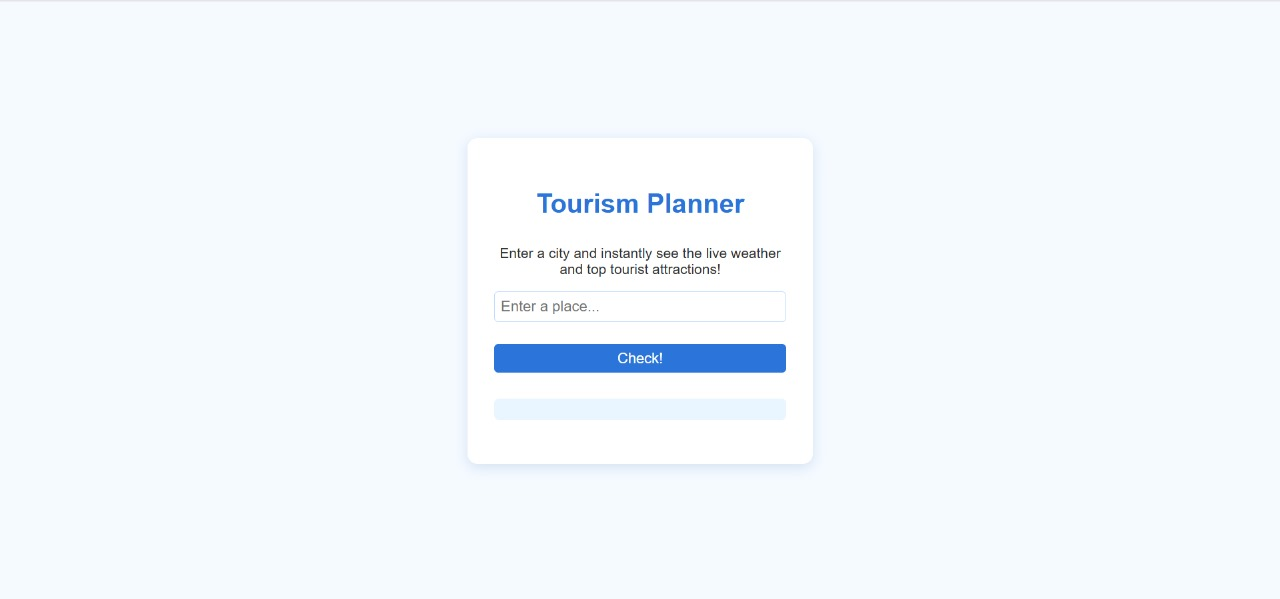
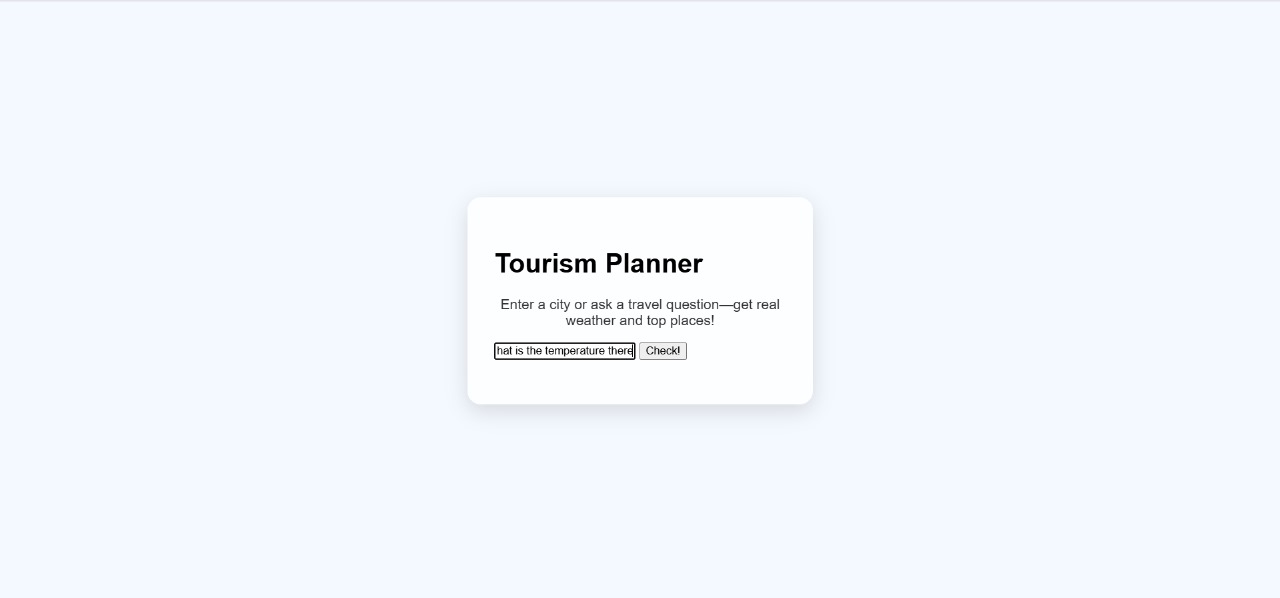
final changes

diff --git a/frontend/app.js b/frontend/app.js
@@ -1,15 +1,51 @@
+function parseUserInput(rawInput) {
+  // List your supported cities
+  const cities = [
+    "Bangalore", "Delhi", "Mumbai", "Chennai", "Kolkata", "Bengaluru", "Hyderabad", "Pune", "Ahmedabad",
+    "Jaipur", "Lucknow", "Goa", "Agra", "Varanasi", "Mysore", "Kochi", "Amritsar", "Udaipur", "Shimla",
+    "Manali", "Rishikesh", "London", "Paris", "New York", "Tokyo", "Sydney", "Berlin", "Rome",
+    "San Francisco", "Singapore"
+  ];
+  let cityFound = "";
+  for (const city of cities) {
+    const re = new RegExp("\\b" + city + "\\b", "i");
+    if (re.test(rawInput)) {
+      cityFound = city;
+      break;
+    }
+  }
+  let wantsWeather = /temp|weather|climate|hot|cold|rain|degree/i.test(rawInput);
+  let wantsPlaces = /place|visit|see|explore|go|attraction|spot/i.test(rawInput);
+  // Default: if neither keyword is found, show both
+  if (!wantsWeather && !wantsPlaces) wantsWeather = wantsPlaces = true;
+  return { city: cityFound, wantsWeather, wantsPlaces };
+}
+
 async function getTourismInfo() {
-  const place = document.getElementById("placeInput").value;
-  let output = "";
+  const rawInput = document.getElementById("placeInput").value;
+  const { city, wantsWeather, wantsPlaces } = parseUserInput(rawInput);
+
+  if (!city) {
+    document.getElementById("result").innerHTML = "Sorry, couldn't find a city in your request.";
+    return;
+  }
+
   document.getElementById("loading").style.display = "block";
+  let output = "";
   try {
-    const response = await fetch(`http://localhost:5000/tourism?place=${encodeURIComponent(place)}`);
+    const response = await fetch(`http://localhost:5000/tourism?place=${encodeURIComponent(city)}`);
     const data = await response.json();
+
     if (data.error) {
       output = data.error;
     } else {
-      output = `In ${place}, it's currently ${data.temp}&deg;C with a chance of ${data.rain_chance}% to rain.<br>And these are the places you can go:<br>`;
-      output += data.attractions.map(a => `- ${a}`).join("<br>");
+      if (wantsWeather) {
+        output += `In ${city} it's currently ${data.temp}&deg;C with a chance of ${data.rain_chance}% to rain.<br>`;
+      }
+      if (wantsPlaces) {
+        output += `And these are the places you can go:<br>`;
+        output += data.attractions.map(a => `- ${a}`).join("<br>");
+      }
     }
   } catch (err) {
     output = "Oops! Could not connect to the server.";
@@ -17,12 +53,3 @@ async function getTourismInfo() {
   document.getElementById("loading").style.display = "none";
   document.getElementById("result").innerHTML = output;
 }
-
-// Enable Enter-key press
-document.getElementById("placeInput").addEventListener("keydown", function(event) {
-  if (event.key === "Enter") {
-    getTourismInfo();
-  }
-});
-
-

diff --git a/backend/agents/app.js b/backend/agents/app.js
@@ -1,22 +1,53 @@
 async function getTourismInfo() {
-  const place = document.getElementById("placeInput").value;
+  const rawInput = document.getElementById("placeInput").value;
+  const { city, wantsWeather, wantsPlaces } = parseUserInput(rawInput);
+
+  if (!city) {
+    document.getElementById("result").innerHTML = "Sorry, couldn't find a city in your request.";
+    return;
+  }
+
+  document.getElementById("loading").style.display = "block";
   let output = "";
-  document.getElementById("loading").style.display = "block"; // Show spinner
   try {
-    const response = await fetch(`http://localhost:5000/tourism?place=${encodeURIComponent(place)}`);
+    const response = await fetch(`http://localhost:5000/tourism?place=${encodeURIComponent(city)}`);
     const data = await response.json();
+
     if (data.error) {
       output = data.error;
     } else {
-      output = `In ${place}, it's currently ${data.temp}&deg;Cwith a chance of ${data.rain_chance}% to rain.\nAnd these are the places you can go:\n`;
-      output += data.attractions.map(a => `- ${a}`).join("\n");
+      if (wantsWeather) {
+        output += `In ${city} it's currently ${data.temp}&deg;C with a chance of ${data.rain_chance}% to rain.<br>`;
+      }
+      if (wantsPlaces) {
+        output += `And these are the places you can go:<br>`;
+        output += data.attractions.map(a => `- ${a}`).join("<br>");
+      }
     }
   } catch (err) {
     output = "Oops! Could not connect to the server.";
   }
-  document.getElementById("loading").style.display = "none"; // Hide spinner
-  document.getElementById("result").innerText = output;
+  document.getElementById("loading").style.display = "none";
+  document.getElementById("result").innerHTML = output;
 }
-function quickFill(place) {
-  document.getElementById("placeInput").value = place;
+function parseUserInput(rawInput) {
+  const cities = [
+    "Bangalore", "Delhi", "Mumbai", "Chennai", "Kolkata", "Bengaluru", "Hyderabad", "Pune", "Ahmedabad",
+    "Jaipur", "Lucknow", "Goa", "Agra", "Varanasi", "Mysore", "Kochi", "Amritsar", "Udaipur", "Shimla",
+    "Manali", "Rishikesh", "London", "Paris", "New York", "Tokyo", "Sydney", "Berlin", "Rome",
+    "San Francisco", "Singapore"
+  ];
+  let cityFound = "";
+  for (const city of cities) {
+    const re = new RegExp("\\b" + city + "\\b", "i");
+    if (re.test(rawInput)) {
+      cityFound = city;
+      break;
+    }
+  }
+  let wantsWeather = /temp|weather|climate|hot|cold|rain|degree/i.test(rawInput);
+  let wantsPlaces = /place|visit|see|explore|go|attraction|spot/i.test(rawInput);
+  // If neither intent found, show both
+  if (!wantsWeather && !wantsPlaces) wantsWeather = wantsPlaces = true;
+  return { city: cityFound, wantsWeather, wantsPlaces };
 }

diff --git a/frontend/index.html b/frontend/index.html
@@ -1,56 +1,23 @@
 <!DOCTYPE html>
 <html>
 <head>
-    <meta charset="utf-8">
-    <title>Tourism Multi-Agent System</title>
-    <link rel="stylesheet" href="style.css">
+  <meta charset="utf-8">
+  <title>Tourism Multi-Agent System</title>
+  <link rel="stylesheet" href="style.css">
 </head>
 <body>
   <div class="container">
     <h1>Tourism Planner</h1>
     <p style="text-align:center; color:#333; font-size:1.05em;">
-      Enter a city and instantly see the live weather and top tourist attractions!
+      Enter a city or ask a travel question—get real weather and top places!
     </p>
 
-    <input list="cities" type="text" id="placeInput" placeholder="Enter a place..." autocomplete="off"/>
+    <input type="text" id="placeInput" placeholder="Type your query, e.g. 'I’m going to Bangalore, let’s plan my trip.'" autocomplete="off"/>
     <button onclick="getTourismInfo()" id="checkBtn">Check!</button>
-    <datalist id="cities">
-      <option value="Bangalore">
-      <option value="Delhi">
-      <option value="Mumbai">
-      <option value="Chennai">
-      <option value="Kolkata">
-      <option value="Bengaluru">
-      <option value="Hyderabad">
-      <option value="Pune">
-      <option value="Ahmedabad">
-      <option value="Jaipur">
-      <option value="Lucknow">
-      <option value="Goa">
-      <option value="Agra">
-      <option value="Varanasi">
-      <option value="Mysore">
-      <option value="Kochi">
-      <option value="Amritsar">
-      <option value="Udaipur">
-      <option value="Shimla">
-      <option value="Manali">
-      <option value="Rishikesh">
-      <option value="London">
-      <option value="Paris">
-      <option value="New York">
-      <option value="Tokyo">
-      <option value="Sydney">
-      <option value="Berlin">
-      <option value="Rome">
-      <option value="San Francisco">
-      <option value="Singapore">
-</datalist>
 
     <div id="loading" style="display:none; text-align:center; margin-top:1em;">
       <span>Loading...</span>
     </div>
-
     <pre id="result"></pre>
   </div>
   <script src="app.js"></script>

diff --git a/backend/app.py b/backend/app.py
@@ -1,25 +1,30 @@
 from flask import Flask, request, jsonify
-from agents.weather_agent import get_weather
-from agents.places_agent import get_places
-from utils import get_coordinates
-from flask_cors import CORS
 
 app = Flask(__name__)
-CORS(app)
-@app.route("/tourism")
+
+CITY_INFO = {
+    "Bangalore": {
+        "temp": "24",
+        "rain_chance": "35",
+        "attractions": [
+            "Lalbagh",
+            "Sri Chamarajendra Park",
+            "Bangalore palace",
+            "Bannerghatta National Park",
+            "Jawaharlal Nehru Planetarium"
+        ]
+    },
+    # You can add more cities here in the same format
+}
+
+@app.route('/tourism')
 def tourism():
-    place = request.args.get("place", "")
-    lat, lon = get_coordinates(place)
-    if lat and lon:
-        temp, rain_chance = get_weather(lat, lon)
-        attractions = get_places(lat, lon)
-        return jsonify({
-            "temp": temp,
-            "rain_chance": rain_chance,
-            "attractions": attractions
-        })
+    city = request.args.get('place')
+    result = CITY_INFO.get(city, None)
+    if result:
+        return jsonify(result)
     else:
-        return jsonify({"error": "Sorry, I don't know this place."})
+        return jsonify({"error": f"Sorry, no data found for {city}."})
 
 if __name__ == "__main__":
     app.run(debug=True)
